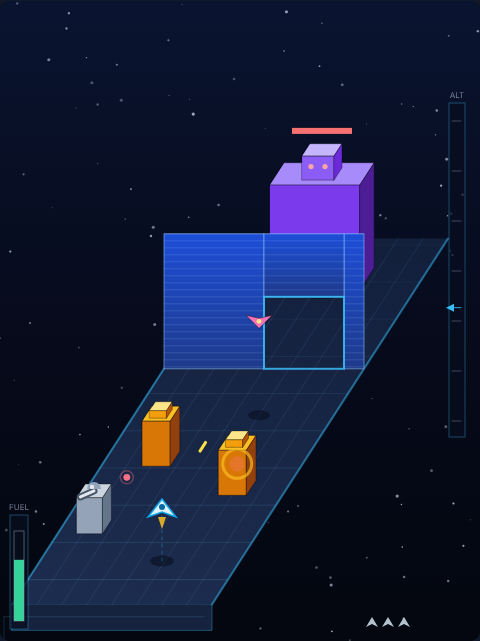
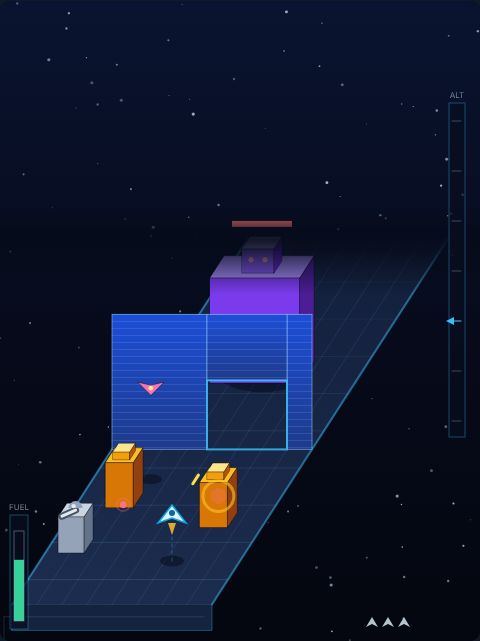
Make Zaxxon's fuel bargain real, and finish the look
A full tank outlasted a whole fortress, so the tanks on the deck — the
mechanic the game is built around — were decoration. Fuel now burns at
5.5/s: 18 seconds on a full tank against a 21-second first fortress, so
crossing it without descending to refuel is impossible.

Two scripted pilots guard that balance in the suite: a greedy one clears
the first fortress without losing a ship, and one that cruises high and
never fires loses ships to the turrets it flies past predictably.

Also fades the deck's far edge into the starfield instead of ending it
mid-air, and marks the game Complete.

Claude-Session: https://claude.ai/code/session_01WRXx6zmcrNXmPq6G14UnER

Changed region(s): [[0.0938, 0.1872, 0.9375, 0.9048], [0.9375, 0.468, 0.9688, 0.5304]]

diff --git a/Zaxxon/tests/zaxxon.spec.js b/Zaxxon/tests/zaxxon.spec.js
@@ -969,6 +969,97 @@ test.describe('Zaxxon', () => {
     });
 
     // -----------------------------------------------------------------------
+    // Difficulty — checked by simulation rather than by feel
+    // -----------------------------------------------------------------------
+    test.describe('difficulty', () => {
+        test('a full tank cannot outlast a fortress', async ({ page }) => {
+            // If it could, every fuel tank on the deck would be decoration.
+            const ok = await page.evaluate(() => {
+                const tank = FUEL_MAX / FUEL_RATE;
+                const crossing = Math.max(...buildLevel(1).map((o) => o.z)) / scrollSpeedFor(1);
+                return { tank, crossing };
+            });
+            expect(ok.tank).toBeLessThan(ok.crossing);
+        });
+
+        test('every fortress is long enough to need the deck', async ({ page }) => {
+            const lengths = await page.evaluate(() =>
+                [1, 2, 3, 4].map((n) => Math.max(...buildLevel(n).map((o) => o.z)) / scrollSpeedFor(n))
+            );
+            lengths.forEach((seconds) => expect(seconds).toBeGreaterThan(12));
+        });
+
+        test('a scripted pilot can fly the first fortress end to end', async ({ page }) => {
+            // A greedy pilot: line up on the next opening if a wall is coming,
+            // otherwise sit on the next target's altitude and hold the trigger.
+            const result = await page.evaluate(() => {
+                startGame();
+                autoRun = false;
+                let steps = 0;
+                while (state === 'running' && steps < 120 * 90) {
+                    const wall = objects
+                        .filter((o) => o.kind === 'wall' && o.z > -10)
+                        .sort((a, b) => a.z - b.z)[0];
+                    let tx = FIELD_W / 2;
+                    let ta = MAX_ALT / 2;
+                    if (wall && wall.z < 360) {
+                        tx = (wall.openX[0] + wall.openX[1]) / 2;
+                        ta = (wall.openAlt[0] + wall.openAlt[1]) / 2;
+                    } else {
+                        const next = objects
+                            .filter((o) => o.kind !== 'wall' && o.z > 30)
+                            .sort((a, b) => a.z - b.z)[0];
+                        if (next) {
+                            tx = next.x;
+                            ta = (next.low + next.high) / 2;
+                        }
+                    }
+                    keys.ArrowLeft = ship.x > tx + 1.5;
+                    keys.ArrowRight = ship.x < tx - 1.5;
+                    keys.ArrowDown = ship.alt > ta + 1.5;
+                    keys.ArrowUp = ship.alt < ta - 1.5;
+                    keys.Space = true;
+                    physicsStep(1 / 120);
+                    steps++;
+                }
+                return { state, lives, score };
+            });
+            expect(result.state).toBe('levelclear');
+            expect(result.lives).toBe(3);
+            expect(result.score).toBeGreaterThan(1000);
+        });
+
+        test('that same pilot is punished for ignoring the deck', async ({ page }) => {
+            // Cruising high without firing: the turrets get a free shot at a
+            // predictable target, so passivity costs ships.
+            const result = await page.evaluate(() => {
+                startGame();
+                autoRun = false;
+                let steps = 0;
+                while (state === 'running' && steps < 120 * 90) {
+                    const wall = objects
+                        .filter((o) => o.kind === 'wall' && o.z > -10)
+                        .sort((a, b) => a.z - b.z)[0];
+                    let tx = FIELD_W / 2;
+                    let ta = 70;
+                    if (wall && wall.z < 360) {
+                        tx = (wall.openX[0] + wall.openX[1]) / 2;
+                        ta = (wall.openAlt[0] + wall.openAlt[1]) / 2;
+                    }
+                    keys.ArrowLeft = ship.x > tx + 1.5;
+                    keys.ArrowRight = ship.x < tx - 1.5;
+                    keys.ArrowDown = ship.alt > ta + 1.5;
+                    keys.ArrowUp = ship.alt < ta - 1.5;
+                    physicsStep(1 / 120);
+                    steps++;
+                }
+                return { state, lives };
+            });
+            expect(result.lives).toBeLessThan(3);
+        });
+    });
+
+    // -----------------------------------------------------------------------
     // Pausing
     // -----------------------------------------------------------------------
     test.describe('pausing', () => {

diff --git a/Zaxxon/game.js b/Zaxxon/game.js
@@ -60,7 +60,7 @@ const HIT_ALT = 12;
 // --- fuel and lives --------------------------------------------------------
 
 const FUEL_MAX = 100;
-const FUEL_RATE = 3.2;               // fuel/s burned in flight
+const FUEL_RATE = 5.5;               // fuel/s burned in flight
 const FUEL_PER_TANK = 30;            // fuel returned by a destroyed tank
 const START_LIVES = 3;
 const INVULN = 1.5;                  // seconds of grace after a crash
@@ -1002,6 +1002,22 @@ function drawBooms() {
     });
 }
 
+// The deck has to stop somewhere, and a hard edge hanging in the starfield
+// looks like a bug. Haze over the far band hides the seam and doubles as the
+// fade-in for objects arriving from the distance.
+function drawHaze() {
+    const edge = proj(0, 0, VIEW_DEPTH).sy;
+    const top = edge - 34;
+    const bottom = edge + 56;
+    const haze = ctx.createLinearGradient(0, top, 0, bottom);
+    haze.addColorStop(0, 'rgba(6, 11, 26, 0)');
+    haze.addColorStop(0.38, 'rgba(6, 11, 26, 0.94)');
+    haze.addColorStop(0.5, 'rgba(6, 11, 26, 0.82)');
+    haze.addColorStop(1, 'rgba(6, 11, 26, 0)');
+    ctx.fillStyle = haze;
+    ctx.fillRect(0, top, W, bottom - top);
+}
+
 function drawLadder() {
     ctx.fillStyle = 'rgba(8, 14, 30, 0.72)';
     ctx.fillRect(LADDER_X - 7, LADDER_TOP - 18, 16, LADDER_H + 34);
@@ -1090,6 +1106,7 @@ function draw() {
     drawShots();
     drawShip();
     drawBooms();
+    drawHaze();
     drawLadder();
     drawFuelGauge();
     drawLives();

diff --git a/Zaxxon/DESIGN.md b/Zaxxon/DESIGN.md
@@ -91,10 +91,12 @@ hits when it reaches the ship's plane within 12 of the ship in both `x` and
 
 ### Fuel, crashes and lives
 
-Fuel starts at `FUEL_MAX` 100 and drains at `FUEL_RATE` 3.2/s, so a full tank
-lasts about 31 seconds — less than a level, which forces at least a couple of
-descents onto the deck. A fuel tank returns `FUEL_PER_TANK` 30, capped at the
-maximum.
+Fuel starts at `FUEL_MAX` 100 and drains at `FUEL_RATE` 5.5/s, so a full tank
+lasts about 18 seconds while the shortest fortress takes 15 and the first takes
+21. Crossing level 1 on the tank you start with is therefore impossible, which is
+the point: the only refill is a tank on the deck, and the only way to shoot one
+is to drop into the layer that can kill you. A fuel tank returns
+`FUEL_PER_TANK` 30, capped at the maximum.
 
 `crash()` costs a life, refills the tank, recentres the ship and grants
 `INVULN` 1.5 s of invulnerability so the ship cannot be killed twice by the same
@@ -114,6 +116,17 @@ The scroll runs at `SCROLL_BASE + (level - 1) * SCROLL_STEP` = 110, 128, 146,
 destroyed or has passed behind the ship — which is always the boss, since it is
 the last entry of every plan. Clearing a level pays `LEVEL_BONUS` 1000 plus 10
 per unit of fuel still in the tank; clearing level `LEVEL_COUNT` 4 wins the run.
+
+### Difficulty
+
+Difficulty was checked by simulation rather than by feel. A greedy scripted
+pilot — line up on the next opening when a wall is coming, otherwise sit on the
+next target's altitude and hold the trigger — clears all four fortresses losing
+one ship, on level 3. The same pilot told to cruise high and never fire loses
+ships instead: a predictable altitude is a free shot for every turret it passes.
+Both runs are in the Playwright suite under `difficulty`, so a change to a level
+plan, the scroll speed or the fuel burn that makes the game unflyable (or
+trivial) fails the build rather than waiting to be noticed.
 
 ### Simulation
 

diff --git a/README.md b/README.md
@@ -142,7 +142,7 @@ For each new game, put it in a new folder. Each game should have its own README.
 | Canyon Raider | [CanyonRaider/](CanyonRaider/) | Complete |
 | Air Traffic Control | [AirTrafficControl/](AirTrafficControl/) | Complete |
 | Gold Runner | [GoldRunner/](GoldRunner/) | Complete |
-| Zaxxon | [Zaxxon/](Zaxxon/) | In Progress |
+| Zaxxon | [Zaxxon/](Zaxxon/) | Complete |
 
 ## Playing
 
